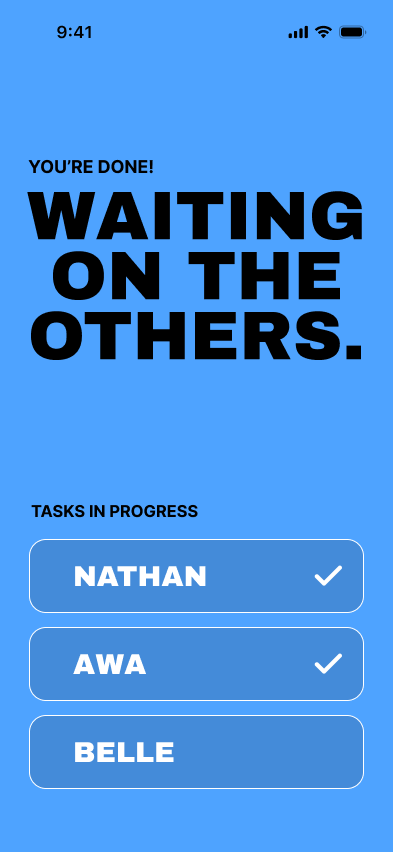
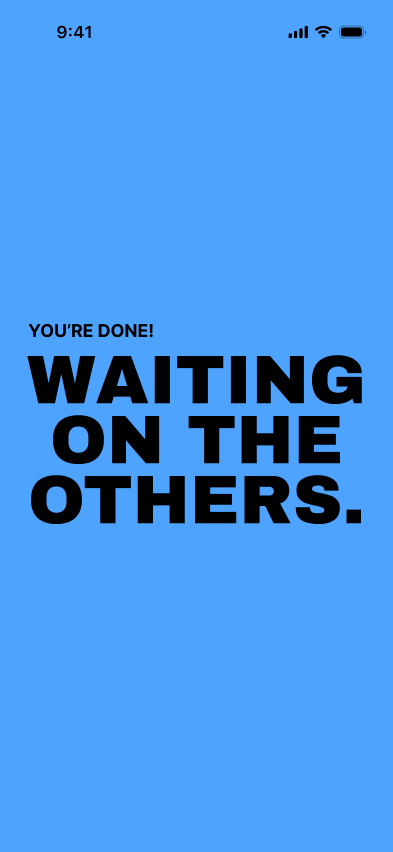
Updated Mole's incognito mode and modified Waiting For Others screen

diff --git a/ios-app/GameApp/GameApp/WaitingForOthersView.swift b/ios-app/GameApp/GameApp/WaitingForOthersView.swift
@@ -9,16 +9,6 @@ struct WaitingForOthersView: View {
     @ObservedObject var networkManager: NetworkManager
     var isDemoMode: Bool = false
 
-    // ── ADJUST PLACEHOLDER PLAYERS HERE ──────────────────────────────
-    // In production this data would come from a server "task_status" message.
-    // For now, edit names and done-status here to test different states.
-    private let demoPlayers: [(name: String, done: Bool)] = [
-        ("NATHAN", true),
-        ("AWA",    true),
-        ("BELLE",  false),
-    ]
-    // ─────────────────────────────────────────────────────────────────
-
     private let blue = Color(red: 0.28, green: 0.68, blue: 0.97)
 
     var body: some View {
@@ -26,47 +16,30 @@ struct WaitingForOthersView: View {
             blue.ignoresSafeArea()
 
             VStack(alignment: .leading, spacing: 0) {
+                Spacer()
 
-                // ── Small label ──────────────────────────────────────
+                // Small label
                 Text("YOU'RE DONE!")
                     .font(.system(size: 14, weight: .bold))
                     .tracking(0.5)
                     .foregroundColor(.black)
                     .padding(.horizontal, 24)
-                    .padding(.top, 56)
+                    .padding(.bottom, 4)
 
-                // ── Large title ──────────────────────────────────────
+                // Large title
                 VStack(alignment: .leading, spacing: 0) {
                     Text("WAITING")
                     Text("ON THE")
                     Text("OTHERS.")
                 }
-                .font(.system(size: 68, weight: .black))
+                .font(.system(size: 76, weight: .black))
                 .foregroundColor(.black)
                 .padding(.horizontal, 24)
-                .padding(.top, 4)
 
                 Spacer()
-
-                // ── Section header ───────────────────────────────────
-                Text("TASKS IN PROGRESS")
-                    .font(.system(size: 12, weight: .bold))
-                    .tracking(1.2)
-                    .foregroundColor(.black.opacity(0.65))
-                    .padding(.horizontal, 24)
-                    .padding(.bottom, 12)
-
-                // ── Player rows ──────────────────────────────────────
-                VStack(spacing: 10) {
-                    ForEach(demoPlayers, id: \.name) { player in
-                        WaitingPlayerRow(name: player.name, done: player.done)
-                    }
-                }
-                .padding(.horizontal, 24)
-                .padding(.bottom, 52)
             }
 
-            // DEMO MODE: floating button to advance to voting
+            // DEMO MODE: advance to voting without a server
             if isDemoMode {
                 VStack {
                     Spacer()
@@ -87,28 +60,5 @@ struct WaitingForOthersView: View {
                 }
             }
         }
-    }
-}
-
-private struct WaitingPlayerRow: View {
-    let name: String
-    let done: Bool
-
-    var body: some View {
-        HStack {
-            Text(name)
-                .font(.system(size: 17, weight: .bold))
-                .foregroundColor(.white)
-            Spacer()
-            if done {
-                Image(systemName: "checkmark")
-                    .font(.system(size: 14, weight: .bold))
-                    .foregroundColor(.white)
-            }
-        }
-        .padding(.horizontal, 20)
-        .frame(height: 60)
-        .background(Color.white.opacity(0.30))
-        .clipShape(RoundedRectangle(cornerRadius: 18))
     }
 }

diff --git a/ios-app/GameApp/GameApp/ContentView.swift b/ios-app/GameApp/GameApp/ContentView.swift
@@ -82,7 +82,7 @@ extension NetworkManager {
 struct ContentView: View {
     @ObservedObject var networkManager: NetworkManager
     @State private var hasSeenRoleReveal = false
-    @State private var showGameComplete = false
+    @State private var showGameComplete = f
     @State private var acknowledgedTaskComplete = false
     @State private var acknowledgedPoisoned = false
     // ── DEMO MODE ── set to true to run a local 3-player simulation on one device
@@ -800,14 +800,16 @@ private struct PoisonActionView: View {
             VStack(alignment: .leading, spacing: 0) {
                 HStack {
                     Spacer()
-                    Text("INCOGNITO MODE")
-                        .font(.system(size: 11, weight: .bold))
-                        .tracking(0.5)
-                        .foregroundColor(.white)
-                        .padding(.horizontal, 14)
-                        .padding(.vertical, 8)
-                        .background(Color.black.opacity(0.25))
-                        .clipShape(Capsule())
+                    Button(action: onPass) {
+                        Text("INCOGNITO MODE")
+                            .font(.system(size: 11, weight: .bold))
+                            .tracking(0.5)
+                            .foregroundColor(.white)
+                            .padding(.horizontal, 14)
+                            .padding(.vertical, 8)
+                            .background(Color.black.opacity(0.25))
+                            .clipShape(Capsule())
+                    }
                 }
                 .padding(.horizontal, 24)
                 .padding(.top, 56)
@@ -933,14 +935,16 @@ private struct FakePoisonedView: View {
             VStack(alignment: .leading, spacing: 0) {
                 HStack {
                     Spacer()
-                    Text("INCOGNITO MODE")
-                        .font(.system(size: 11, weight: .bold))
-                        .tracking(0.5)
-                        .foregroundColor(.white)
-                        .padding(.horizontal, 14)
-                        .padding(.vertical, 8)
-                        .background(Color.black.opacity(0.25))
-                        .clipShape(Capsule())
+                    Button(action: onBoohoo) {
+                        Text("INCOGNITO MODE")
+                            .font(.system(size: 11, weight: .bold))
+                            .tracking(0.5)
+                            .foregroundColor(.white)
+                            .padding(.horizontal, 14)
+                            .padding(.vertical, 8)
+                            .background(Color.black.opacity(0.25))
+                            .clipShape(Capsule())
+                    }
                 }
                 .padding(.horizontal, 24)
                 .padding(.top, 56)